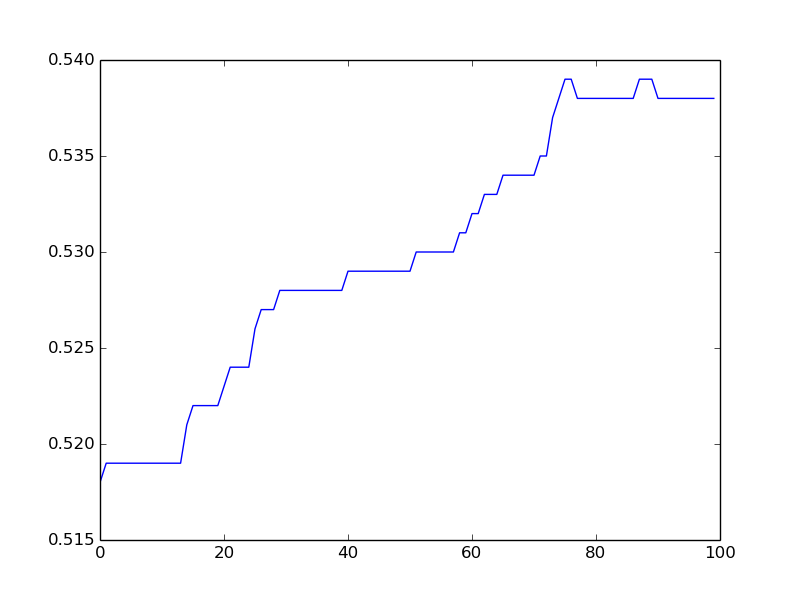
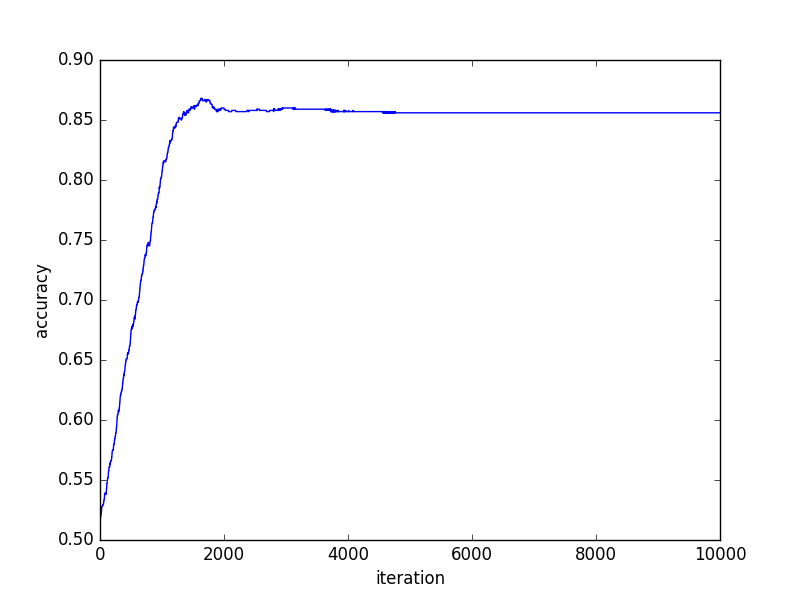
q3-2.py result

diff --git a/hw2/q3-2.py b/hw2/q3-2.py
@@ -47,7 +47,7 @@ def accuracy(w):
 fv = []
 ac = []
 
-for _ in range(100):
+for _ in range(10000):
     grad_w = grad(w0)
 
     w0 += -step_size * grad_w
@@ -55,9 +55,13 @@ for _ in range(100):
     ac.append(accuracy(w0))
 
 plt.plot(fv)
+plt.xlabel('iteration')
+plt.ylabel('function value')
 plt.savefig('q3-2-fv.png')
 
 plt.clf()
 
 plt.plot(ac)
+plt.xlabel('iteration')
+plt.ylabel('accuracy')
 plt.savefig('q3-2-ac.png')
